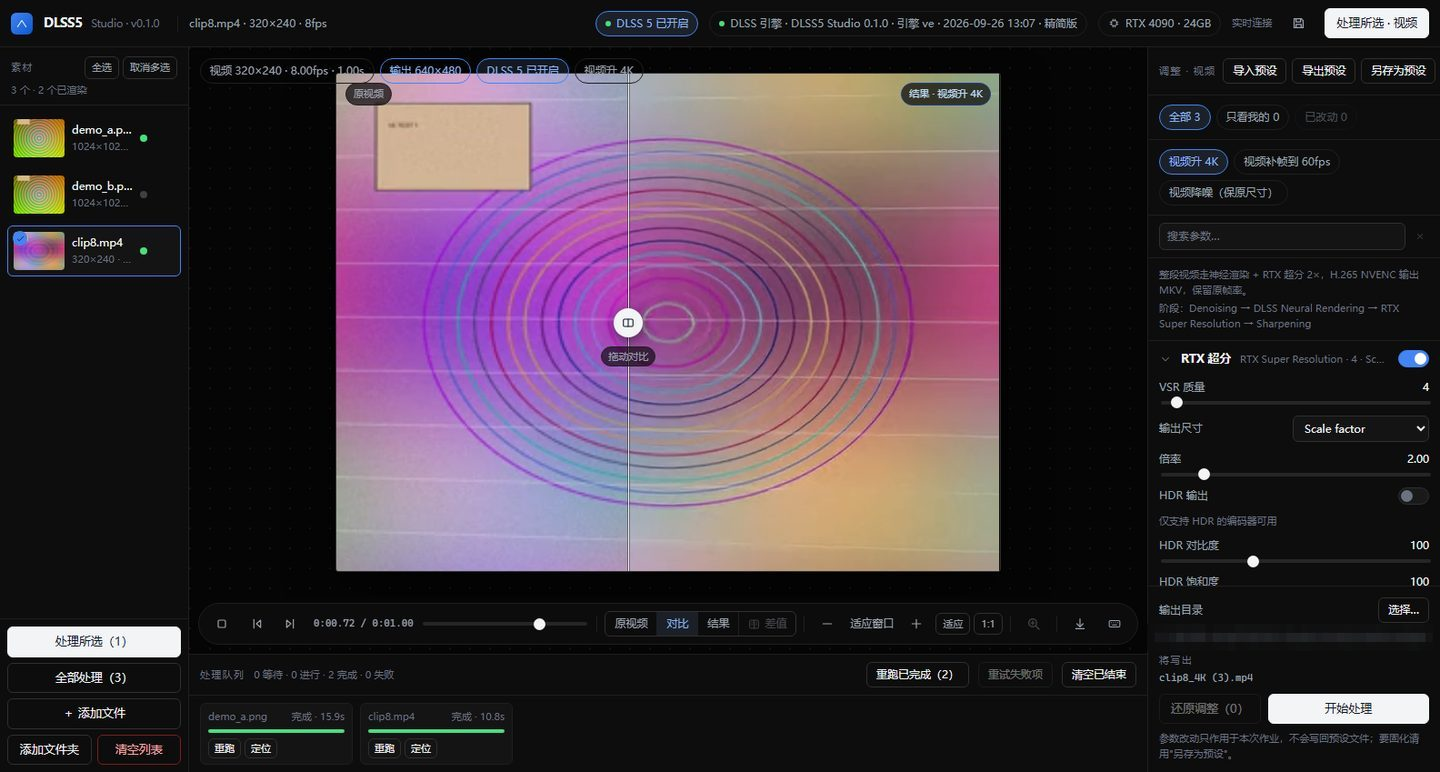
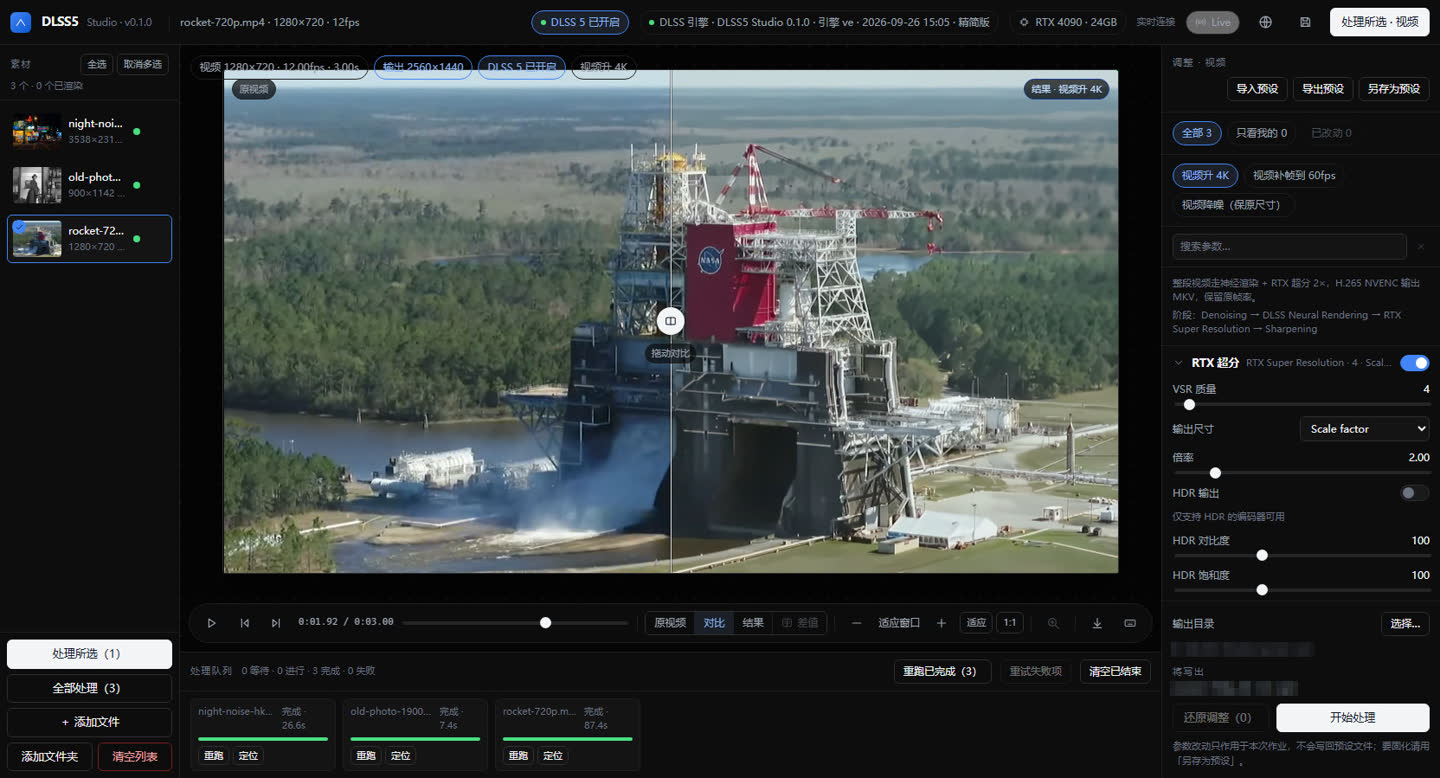
feat(studio): show real measured sessions on download page

diff --git a/src/content/studioPage.ts b/src/content/studioPage.ts
@@ -1,10 +1,9 @@
 /**
  * DLSS5 Studio 落地页文案（英文 / 简体中文）—— 纯数据，无逻辑、无依赖、无组件。
  *
- * 单一来源：alibaba-drive/DLSS5-Studio/landing/index.html（2026-09-26 定稿）。
- * 改文案要在两边一起改：先改 HTML，再重跑抽取脚本
- *   ~/opt/anaconda3/bin/python <scratchpad>/extract-studio-copy.py
- * 这份文件是生成物，请勿手改。
+ * 基础文案最初取自 alibaba-drive/DLSS5-Studio/landing/index.html（2026-09-26）。
+ * /download 的真实业务截图与数字以 promo-20260930/studio-promo.md 为准；
+ * 不要用旧落地页的抽取脚本覆盖本文件里的新实测文案。
  *
  * 键名就是 HTML 上 data-i18n / data-i18n-alt / data-i18n-aria 的值，
  * 外加 meta.title / meta.desc（<title> 与 meta description）。
@@ -33,8 +32,8 @@ export const STUDIO_COPY = {
     'hero.meta.os': 'Windows 10 / 11 · x64',
     'hero.meta.gpu': 'NVIDIA RTX GPU',
     'hero.meta.install': 'No installer, no Python, no account',
-    'hero.shot.alt': 'The DLSS5 Studio window: an asset rail on the left, a wipe-compare canvas in the middle showing a 2048×2048 result from a 1024×1024 source, a parameter inspector on the right, and a job queue along the bottom.',
-    'hero.shot.cap': 'Real application capture: a 1024×1024 source on the left of the wipe and its 2048×2048 result on the right (2× scale).',
+    'hero.shot.alt': 'A real DLSS5 Studio night-noise session: Hong Kong night street source 3538×2318, Night Noise preset, DLSS 5 enabled, 7076×4636 output and a completed 26.6s queue item visible around the wipe-compare canvas.',
+    'hero.shot.cap': 'Real application capture: Night Noise on a 3538×2318 night street frame, output 7076×4636; the queue records completed · 26.6s.',
     'which.eyebrow': 'First things first',
     'which.title': 'Which “DLSS download” are you looking for?',
     'which.sub': 'Two different things are called DLSS here. Picking the right one first saves a wasted download.',
@@ -54,7 +53,7 @@ export const STUDIO_COPY = {
     'feat.2.t': 'RTX Super Resolution',
     'feat.2.d': 'VSR quality 1–4, scale factor and target size, with the DLAA / Quality / Balanced / Performance / Ultra Performance steps. There is no 4× step — 4× means Lanczos 2× into DLSS Performance.',
     'feat.3.t': 'Video and frame interpolation',
-    'feat.3.d': 'Videos go through neural rendering, RTX Super Resolution and interpolation to 60 fps, encoded with H.265 NVENC into MKV at the original frame rate. Without NVENC it falls back to a software encoder and says so in the job log.',
+    'feat.3.d': 'Videos can run through neural rendering and RTX Super Resolution while keeping the source frame rate. The reference 720p clip produced 2560×1440 H.264 MP4 in 87.4s (2.43s/frame) because driver 591.86 is below the 610+ requirement for hardware H.265/NVENC; the fallback is recorded in the job log.',
     'feat.4.t': 'Batch queue',
     'feat.4.d': 'Serial execution with live progress, cancel and retry. Output names are predictable (<code>&lt;name&gt;_&lt;preset label&gt;</code>), a collision becomes <code> (2)</code>, and an existing file is never overwritten.',
     'feat.5.t': 'Wipe compare and difference view',
@@ -86,13 +85,31 @@ export const STUDIO_COPY = {
     'live.shot.cap': 'A running session: 9.1 fps measured against a 10 fps target, 5.4 s of buffer, 95 frames enhanced — and the HLS address to hand to mpv or VLC.',
     'shots.eyebrow': 'Screenshots',
     'shots.title': 'The actual interface',
-    'shots.sub': 'Straight captures of the running application. Nothing here is mocked up.',
-    'shots.video.alt': 'A video job open for comparison: a 320×240 source playing, the 640×480 output on the right of the wipe, and transport controls with frame stepping underneath.',
-    'shots.video.cap': 'Video compare: play the result in place, step frame by frame, switch source / compare / result live.',
-    'shots.diff.alt': 'The difference view: the pixel-by-pixel difference between source and result, rendered dark with fine concentric noise structure, with a magnifier open and a 1× / 3× / 8× gain selector in the toolbar.',
-    'shots.diff.cap': 'Difference view: a pixel-by-pixel subtraction of source and result — brighter means a bigger change.',
-    'shots.keys.alt': 'The keyboard shortcut dialog, listing shortcuts for the asset rail, the queue, parameters and presets, and canvas comparison.',
-    'shots.keys.cap': 'A keyboard path for nearly everything — Ctrl+O, Ctrl+A, Enter to process, F to fit, Z for the magnifier, Space to play.',
+    'shots.sub': 'Straight captures of the running application: Night Noise 1:1 detail, a Difference view, a video comparison, a live queue and the keyboard panel. Nothing here is mocked up.',
+    'shots.nightLens.alt': 'A real Night Noise result at 1:1 and 398% magnification: the canvas shows the Night Noise result and the 3538×2318 to 7076×4636 session controls.',
+    'shots.nightLens.cap': 'Night Noise detail: 1:1 view with a 398% magnifier on the 7076×4636 result.',
+    'shots.photoRestore.alt': 'A real Old Photo Restore session: 900×1142 source, 1800×2284 output and a completed 7.4s queue item in the Studio window.',
+    'shots.photoRestore.cap': 'Old Photo Restore: the 900×1142 source and 1800×2284 output are shown in the application wipe view.',
+    'shots.video.alt': 'A NASA SLS test video in DLSS5 Studio: 1280×720 at 12fps and 3.00s, Video 4K preset, 2560×1440 output, with the wipe comparison and 87.4s completed queue item visible.',
+    'shots.video.cap': 'Video compare: a 1280×720 source and 2560×1440 result, with playback controls and source / comparison / result views.',
+    'shots.diff.alt': 'The Difference view for the night-noise session: the toolbar shows Difference and 3× gain while the 3538×2318 source is compared with its 7076×4636 output.',
+    'shots.diff.cap': 'Difference view: a pixel-by-pixel subtraction of the night source and result; brighter regions indicate larger changes.',
+    'shots.queue.alt': 'A real batch queue in progress: 0 waiting, 1 in progress, 2 complete and 0 failed, with the current item at 7 percent.',
+    'shots.queue.cap': 'Batch queue in progress: the current item is at 7%, with two completed jobs and no failures.',
+    'shots.keys.alt': 'The real keyboard shortcut dialog, listing shortcuts for the asset rail, queue, parameters and presets, and canvas comparison.',
+    'shots.keys.cap': 'The real shortcut panel covers Ctrl+O, Ctrl+A, Enter to process, F to fit, Z for the magnifier and Space to play.',
+    'showcase.title': 'Three real sessions, measured end to end',
+    'showcase.intro': 'These are real application captures from Windows 11 Pro 26200 on an RTX 4090 24 GB with driver 591.86. The inputs are CC0 or public-domain source media; the <a href="https://commons.wikimedia.org/wiki/File:Hong_Kong_in_night_(noise_version).jpg" target="_blank" rel="noreferrer">Hong Kong night source</a>, <a href="https://commons.wikimedia.org/wiki/File:Unidentified_woman_taking_her_own_photograph_using_a_mirror_and_a_box_camera,_roughly_1900.jpg" target="_blank" rel="noreferrer">1900 portrait source</a> and <a href="https://commons.wikimedia.org/wiki/File:NASA%E2%80%99s_Green_Run_Hot_Fire_Test_of_the_Space_Launch_System_Core_Stage.webm" target="_blank" rel="noreferrer">NASA SLS video source</a> are linked for verification.',
+    'showcase.night.title': 'Night-noise reduction · 2× output',
+    'showcase.night.alt': 'Real DLSS5 Studio night-noise comparison: Hong Kong night street, 3538×2318 source to 7076×4636 output, Night Noise preset, completed in 26.6 seconds.',
+    'showcase.night.body': 'The Night Noise preset processed a 3538×2318 street frame into 7076×4636 in <strong>26.6s</strong>. The screenshot shows the wipe comparison, DLSS 5 enabled, Night Noise selected and the completed queue item.',
+    'showcase.photo.title': 'Old-photo restoration · 2× output',
+    'showcase.photo.alt': 'Real DLSS5 Studio old-photo restoration comparison: 900×1142 source to 1800×2284 output, Old Photo Restore preset, completed in 7.4 seconds.',
+    'showcase.photo.body': 'The Old Photo Restore preset took a 900×1142 public-domain scan to 1800×2284 in <strong>7.4s</strong>. The before/after wipe is the application view; no hand retouching was added to the screenshot.',
+    'showcase.video.title': 'Video 4K preset · 1440p output · batch queue',
+    'showcase.video.alt': 'Real DLSS5 Studio video comparison: NASA SLS test footage at 1280×720, 12fps and 3 seconds to 2560×1440, completed in 87.4 seconds.',
+    'showcase.video.queueAlt': 'Real DLSS5 Studio batch queue while processing: zero waiting, one in progress, two complete and zero failed, with the current item at 7 percent.',
+    'showcase.video.body': 'The 1280×720, 12fps, 3.00s clip produced 2560×1440 H.264 MP4 in <strong>87.4s</strong> — <strong>2.43s/frame</strong>. The paired queue capture shows 0 waiting · 1 in progress · 2 complete · 0 failed. The preset names H.265/NVENC, but this RTX 4090 driver 591.86 is below 610, so encoding correctly fell back to software H.264 MP4.',
     'req.eyebrow': 'Requirements',
     'req.title': 'What you need',
     'req.sub': 'A modern Windows machine with an RTX card, and a browser you already have.',
@@ -168,8 +185,8 @@ export const STUDIO_COPY = {
     'hero.meta.os': 'Windows 10 / 11 · x64',
     'hero.meta.gpu': 'NVIDIA RTX 显卡',
     'hero.meta.install': '免安装、不用 Python、不用账号',
-    'hero.shot.alt': 'DLSS5 Studio 的运行界面：左侧素材栏；中间是擦除对比画布，显示从 1024×1024 原图得到的 2048×2048 结果；右侧参数检查器；底部处理队列。',
-    'hero.shot.cap': '真实运行的界面：擦除线左边是 1024×1024 原图，右边是 2048×2048 结果（2 倍尺寸）。',
+    'hero.shot.alt': '真实的 DLSS5 Studio 夜景降噪会话：香港夜景原图 3538×2318，夜景降噪预设，DLSS 5 已开启，输出 7076×4636，队列中可看到已完成 26.6 秒。',
+    'hero.shot.cap': '真实运行截图：3538×2318 夜景素材使用夜景降噪，输出 7076×4636；队列记录为完成 · 26.6s。',
     'which.eyebrow': '先说清楚',
     'which.title': '你要找的「DLSS 下载」是哪一个？',
     'which.sub': '这一页上有两个东西都叫 DLSS。先分清是哪个，能省掉一次白下。',
@@ -189,7 +206,7 @@ export const STUDIO_COPY = {
     'feat.2.t': 'RTX 超分',
     'feat.2.d': 'VSR 质量 1–4 档、倍率与目标尺寸，配合 DLAA / Quality / Balanced / Performance / Ultra Performance 五档 DLSS 档位。没有 4× 这一档 —— 想要 4× 就是先 Lanczos 2×、再让 DLSS 走 Performance。',
     'feat.3.t': '视频与帧插值',
-    'feat.3.d': '视频走神经渲染 + RTX 超分 + 补帧到 60fps，用 H.265 NVENC 编成 MKV 并保留原帧率。没有 NVENC 时自动换同族软件编码器，并在作业消息里如实说明。',
+    'feat.3.d': '视频可以走神经渲染和 RTX 超分，并保留原帧率。参考 720p 片段输出为 2560×1440 H.264 MP4，用时 87.4 秒（2.43 秒/帧）；因为驱动 591.86 低于硬件 H.265/NVENC 所需的 610+，编码器自动退到软件编码，并在作业日志中记录。',
     'feat.4.t': '批量队列',
     'feat.4.d': '串行执行，实时进度、取消、重试。输出命名可预测（<code>&lt;原文件名&gt;_&lt;预设标签&gt;</code>），重名变成 <code> (2)</code>，已存在的文件绝不覆盖。',
     'feat.5.t': '擦除对比与差值视图',
@@ -221,13 +238,31 @@ export const STUDIO_COPY = {
     'live.shot.cap': '一次真实会话：目标 10 fps，实测 9.1 fps，缓冲 5.4 秒，已增强 95 帧 —— 以及可以交给 mpv / VLC 的 HLS 地址。',
     'shots.eyebrow': '界面截图',
     'shots.title': '真实的界面',
-    'shots.sub': '全部是运行中程序的原样截图，没有一张是效果图。',
-    'shots.video.alt': '一个视频作业的对比：320×240 原片在播放，擦除线右侧是 640×480 的输出，下方是带逐帧按钮的播放控制条。',
-    'shots.video.cap': '视频对比：原地播放结果、逐帧步进、原片 / 对比 / 结果三档实时切换。',
-    'shots.diff.alt': '差值视图：原图与结果逐像素相减后的画面，整体偏暗、可见细密的同心噪点结构，同时开着放大镜，工具条上有 1× / 3× / 8× 增益选择。',
-    'shots.diff.cap': '差值视图：原图与结果逐像素相减 —— 越亮改动越大。',
-    'shots.keys.alt': '快捷键面板，列出素材栏、队列、参数与预设、画布对比四组快捷键。',
-    'shots.keys.cap': '几乎每一步都有键盘路径 —— Ctrl+O 加文件、Ctrl+A 全选、Enter 处理、F 适应、Z 放大镜、空格播放。',
+    'shots.sub': '全部是运行中程序的原样截图：夜景 1:1 细节、差值视图、视频对比、处理队列和快捷键面板；没有合成图。',
+    'shots.nightLens.alt': '真实的夜景降噪结果 1:1 与 398% 放大图：画布显示夜景降噪结果，以及 3538×2318 到 7076×4636 的会话参数。',
+    'shots.nightLens.cap': '夜景降噪细节：7076×4636 结果的 1:1 视图与 398% 放大镜。',
+    'shots.photoRestore.alt': '真实的老照片修复会话：900×1142 原图、1800×2284 输出，以及工作室中完成 7.4 秒的队列项。',
+    'shots.photoRestore.cap': '老照片修复：应用擦除视图展示 900×1142 原图与 1800×2284 输出。',
+    'shots.video.alt': 'DLSS5 Studio 中的 NASA SLS 试车视频：1280×720、12fps、3.00 秒，视频升 4K 预设，输出 2560×1440，画布显示擦除对比和完成 87.4 秒的队列项。',
+    'shots.video.cap': '视频对比：1280×720 原片与 2560×1440 结果，带播放控制和原片 / 对比 / 结果视图。',
+    'shots.diff.alt': '夜景降噪会话的差值视图：工具条显示差值和 3× 增益，画布对比 3538×2318 原图与 7076×4636 输出。',
+    'shots.diff.cap': '差值视图：逐像素相减夜景原图与结果，越亮的区域代表改动越大。',
+    'shots.queue.alt': '真实的处理中批量队列：0 等待、1 进行、2 完成、0 失败，当前项进度 7%。',
+    'shots.queue.cap': '处理中批量队列：当前项 7%，已有两个任务完成，没有失败任务。',
+    'shots.keys.alt': '真实快捷键面板，列出素材栏、队列、参数与预设、画布对比四组快捷键。',
+    'shots.keys.cap': '真实快捷键面板覆盖 Ctrl+O、Ctrl+A、Enter 处理、F 适应、Z 放大镜和空格播放。',
+    'showcase.title': '三个真实会话：从输入到输出的实测记录',
+    'showcase.intro': '以下都是 Windows 11 Pro 26200、RTX 4090 24 GB、驱动 591.86 上的真实运行截图。输入素材均为 CC0 或公共领域：<a href="https://commons.wikimedia.org/wiki/File:Hong_Kong_in_night_(noise_version).jpg" target="_blank" rel="noreferrer">香港夜景来源页</a>、<a href="https://commons.wikimedia.org/wiki/File:Unidentified_woman_taking_her_own_photograph_using_a_mirror_and_a_box_camera,_roughly_1900.jpg" target="_blank" rel="noreferrer">1900 年照片来源页</a>、<a href="https://commons.wikimedia.org/wiki/File:NASA%E2%80%99s_Green_Run_Hot_Fire_Test_of_the_Space_Launch_System_Core_Stage.webm" target="_blank" rel="noreferrer">NASA SLS 视频来源页</a>，均可打开核对。',
+    'showcase.night.title': '夜景降噪 · 输出放大 2 倍',
+    'showcase.night.alt': '真实 DLSS5 Studio 夜景降噪对比：香港夜景原图 3538×2318 输出为 7076×4636，选择夜景降噪预设，耗时 26.6 秒。',
+    'showcase.night.body': '夜景降噪预设把 3538×2318 夜景帧处理为 7076×4636，用时<strong>26.6 秒</strong>。图中能看到擦除对比、DLSS 5 已开启、夜景降噪已选中，以及已完成的队列项。',
+    'showcase.photo.title': '老照片修复 · 输出放大 2 倍',
+    'showcase.photo.alt': '真实 DLSS5 Studio 老照片修复对比：900×1142 原图输出为 1800×2284，选择老照片修复预设，耗时 7.4 秒。',
+    'showcase.photo.body': '老照片修复预设把 900×1142 公共领域扫描件处理为 1800×2284，用时<strong>7.4 秒</strong>。前后擦除是应用原生视图，截图没有额外手工修图。',
+    'showcase.video.title': '「视频升 4K」预设 · 实际输出 1440p · 批量队列',
+    'showcase.video.alt': '真实 DLSS5 Studio 视频对比：NASA SLS 试车素材 1280×720、12fps、3 秒输出为 2560×1440，耗时 87.4 秒。',
+    'showcase.video.queueAlt': '真实 DLSS5 Studio 处理中的批量队列：0 等待、1 进行、2 完成、0 失败，当前项进度 7%。',
+    'showcase.video.body': '1280×720、12fps、3.00 秒片段输出为 2560×1440 H.264 MP4，用时<strong>87.4 秒</strong>，即<strong>2.43 秒/帧</strong>。配图同时展示 0 等待 · 1 进行 · 2 完成 · 0 失败的队列。预设写的是 H.265/NVENC，但这台机器驱动 591.86 低于 610，编码器按预期退到软件 H.264 MP4。',
     'req.eyebrow': '系统要求',
     'req.title': '你需要什么',
     'req.sub': '一台带 RTX 显卡的现代 Windows 机器，以及一个你本来就有浏览器。',

diff --git a/scripts/prerender-seo.ts b/scripts/prerender-seo.ts
@@ -9,6 +9,7 @@ import type { PhotoSpec } from '../src/lib/spec/types';
 import { PASSPORT_PHOTO_LONG_FORM, PASSPORT_PHOTO_SPEC_SLUGS, passportPhotoSeoCopy } from '../src/content/passportPhoto';
 import { GAME_STYLE_LANDING, GAME_STYLE_LONG_FORM, gameStyleLandingSchema } from '../src/content/gameStyleLanding';
 import { VIDEO_LANDING, VIDEO_LONG_FORM, videoLandingSchema } from '../src/content/videoLanding';
+import { STUDIO_COPY } from '../src/content/studioPage';
 import { AI_OVERVIEW_DEFINITION } from '../src/content/seoDefinitions';
 import { DEFAULT_SITE_URL, DEFAULT_SUPPORT_EMAIL, resolveSiteUrl, resolveSupportEmail } from '../src/config/site-url';
 import { SITE_PROFILE, SITE_SECTIONS, brandCopy, isPublishedPath, profileHas } from '../src/config/profile';
@@ -375,6 +376,7 @@ type PublicGuideOptions = {
   lead: string;
   keywords: string[];
   links?: Array<{ label: string; path: string }>;
+  extraHtml?: string;
   noindex?: boolean;
 };
 
@@ -383,7 +385,7 @@ function renderPublicGuide(options: PublicGuideOptions): string {
   const links = options.links?.length
     ? `<nav class="mt-10 border-t border-outline-variant/20 pt-7" aria-label="Related pages"><h2 class="text-xl font-bold text-white">Continue exploring</h2><ul class="mt-4 grid grid-cols-1 sm:grid-cols-2 gap-3">${options.links.map(link => `<li><a class="text-primary" href="${escapeHtml(link.path)}">${escapeHtml(link.label)} →</a></li>`).join('')}</ul></nav>`
     : '';
-  const root = `<main class="pt-32 pb-24 px-6 max-w-[1000px] mx-auto"><nav class="mb-8 text-sm text-zinc-500"><a href="/">DLSS5NVIDIA</a> <span aria-hidden="true">/</span> <span>${escapeHtml(options.heading)}</span></nav><header class="max-w-3xl"><p class="text-primary uppercase tracking-widest text-xs">DLSS5NVIDIA · independent guide</p><h1 class="text-4xl md:text-5xl font-bold text-white mt-4">${escapeHtml(options.heading)}</h1><p class="text-lg leading-relaxed text-zinc-300 mt-5">${escapeHtml(options.lead)}</p></header><section class="mt-12 rounded-xl border border-outline-variant/20 bg-surface-low p-6"><h2 class="text-2xl font-bold text-white">What this page covers</h2><p class="mt-4 leading-relaxed text-zinc-300">${escapeHtml(options.description)}</p></section>${links}</main>`;
+  const root = `<main class="pt-32 pb-24 px-6 max-w-[1000px] mx-auto"><nav class="mb-8 text-sm text-zinc-500"><a href="/">DLSS5NVIDIA</a> <span aria-hidden="true">/</span> <span>${escapeHtml(options.heading)}</span></nav><header class="max-w-3xl"><p class="text-primary uppercase tracking-widest text-xs">DLSS5NVIDIA · independent guide</p><h1 class="text-4xl md:text-5xl font-bold text-white mt-4">${escapeHtml(options.heading)}</h1><p class="text-lg leading-relaxed text-zinc-300 mt-5">${escapeHtml(options.lead)}</p></header><section class="mt-12 rounded-xl border border-outline-variant/20 bg-surface-low p-6"><h2 class="text-2xl font-bold text-white">What this page covers</h2><p class="mt-4 leading-relaxed text-zinc-300">${escapeHtml(options.description)}</p></section>${options.extraHtml || ''}${links}</main>`;
   return withRoot(withHead(TEMPLATE, {
     title: options.title,
     description: options.description,
@@ -791,6 +793,13 @@ if (profileHas('about')) writeRoute('/about', renderPublicGuide({
   keywords: ['NVIDIA DLSS 5', 'DLSS 5 neural rendering', 'Tensor Core upscaling', 'DLSS 5 vs DLSS 4', 'DLSS 5 vs FSR 4'],
   links: [{ label: 'DLSS 5 latest news', path: '/blog/dlss-5-latest-news-september-2026' }, { label: 'DLSS 5 technical guide', path: '/blog/what-is-dlss-5-neural-rendering-guide' }, { label: 'AI image tools compared', path: '/comparisons' }],
 }));
+const studioStatic = STUDIO_COPY['en-US'];
+const studioStaticCases = [
+  { id: 'night', image: 'studio-overview.jpg', extra: 'studio-night-lens.jpg', extraAlt: studioStatic['shots.nightLens.alt'] },
+  { id: 'photo', image: 'studio-photo-restore.jpg' },
+  { id: 'video', image: 'studio-video-compare.jpg', extra: 'studio-queue.jpg', extraAlt: studioStatic['showcase.video.queueAlt'] },
+] as const;
+const studioStaticShowcase = `<section id="showcase" class="mt-12"><h2 class="text-2xl font-bold text-white">${escapeHtml(studioStatic['showcase.title'])}</h2><p class="mt-4 text-zinc-300 leading-relaxed">${studioStatic['showcase.intro']}</p>${studioStaticCases.map((item) => `<article class="mt-8 rounded-xl border border-outline-variant/20 bg-surface-low overflow-hidden"><img src="/studio/${item.image}" width="1440" height="778" loading="lazy" alt="${escapeHtml(studioStatic[`showcase.${item.id}.alt`])}" class="w-full" />${'extra' in item ? `<img src="/studio/${item.extra}" width="1440" height="778" loading="lazy" alt="${escapeHtml(item.extraAlt)}" class="w-full" />` : ''}<div class="p-5"><h3 class="text-xl font-bold text-white">${escapeHtml(studioStatic[`showcase.${item.id}.title`])}</h3><p class="mt-2 text-zinc-300 leading-relaxed">${studioStatic[`showcase.${item.id}.body`]}</p></div></article>`).join('')}<figure class="mt-8"><img src="/studio/studio-diff.jpg" width="1440" height="778" loading="lazy" alt="${escapeHtml(studioStatic['shots.diff.alt'])}" class="w-full rounded-xl" /><figcaption class="mt-2 text-sm text-zinc-400">${escapeHtml(studioStatic['shots.diff.cap'])}</figcaption></figure></section>`;
 if (profileHas('download')) writeRoute('/download', renderPublicGuide({
   path: '/download',
   title: 'DLSS5 Studio — DLSS 5 download explained, plus a local neural rendering tool',
@@ -799,6 +808,7 @@ if (profileHas('download')) writeRoute('/download', renderPublicGuide({
   lead: 'Understand where official DLSS is delivered, what DLSS5 Studio adds on a local RTX machine, and how to ask for the build.',
   keywords: ['DLSS 5 download', 'DLSS download free', 'DLSS5 Studio', 'NVIDIA DLSS installer', 'RTX DLSS compatibility', 'local neural rendering tool'],
   links: [{ label: 'Free AI Image Upscaler', path: '/image-upscaler' }, { label: 'Latest DLSS 5 news', path: '/blog/dlss-5-latest-news-september-2026' }, { label: 'Models and workflows', path: '/models' }],
+  extraHtml: studioStaticShowcase,
 }));
 if (profileHas('docs')) writeRoute('/docs', renderApiCatalog());
 if (profileHas('enterprise')) writeRoute('/enterprise', renderPublicGuide({

diff --git a/src/pages/Download.tsx b/src/pages/Download.tsx
@@ -11,7 +11,6 @@ import {
   Monitor,
   Package,
   ShieldCheck,
-  Sparkles,
 } from 'lucide-react';
 import SEO from '../components/SEO';
 import StudioRequest from '../components/StudioRequest';
@@ -29,10 +28,13 @@ import { SITE_URL } from '../config/site';
  */
 
 const STUDIO_SHOTS = {
-  hero: { src: '/studio/studio-overview.jpg', width: 1440, height: 794 },
+  hero: { src: '/studio/studio-overview.jpg', width: 1440, height: 778 },
+  nightLens: { src: '/studio/studio-night-lens.jpg', width: 1440, height: 778 },
+  diff: { src: '/studio/studio-diff.jpg', width: 1440, height: 778 },
+  photoRestore: { src: '/studio/studio-photo-restore.jpg', width: 1440, height: 778 },
   live: { src: '/studio/live-panel.jpg', width: 1424, height: 789 },
-  video: { src: '/studio/studio-video-compare.jpg', width: 1440, height: 772 },
-  diff: { src: '/studio/studio-diff.jpg', width: 1440, height: 772 },
+  video: { src: '/studio/studio-video-compare.jpg', width: 1440, height: 778 },
+  queue: { src: '/studio/studio-queue.jpg', width: 1440, height: 778 },
   keys: { src: '/studio/studio-shortcuts.jpg', width: 1440, height: 772 },
 };
 
@@ -284,8 +286,11 @@ export default function Download() {
 
         <div className="mt-8 grid grid-cols-1 md:grid-cols-3 gap-5">
           {([
+            ['nightLens', STUDIO_SHOTS.nightLens],
+            ['photoRestore', STUDIO_SHOTS.photoRestore],
             ['video', STUDIO_SHOTS.video],
             ['diff', STUDIO_SHOTS.diff],
+            ['queue', STUDIO_SHOTS.queue],
             ['keys', STUDIO_SHOTS.keys],
           ] as const).map(([id, shot]) => (
             <figure key={id}>
@@ -303,12 +308,43 @@ export default function Download() {
         </div>
       </section>
 
-      {/* ── 效果对比（等真实素材） ───────────────────────────────────── */}
+      {/* ── 真实业务展示 ─────────────────────────────────────────────── */}
       <section id="showcase" className="mb-16 scroll-mt-28">
         <h2 className="text-2xl md:text-3xl font-headline font-bold text-white mb-4">{t('showcase.title')}</h2>
-        <div className="rounded-2xl border border-dashed border-outline-variant/40 bg-surface-low p-8 text-center">
-          <Sparkles className="w-6 h-6 text-zinc-500 mx-auto mb-3" aria-hidden="true" />
-          <p className="text-sm text-zinc-400 leading-relaxed max-w-2xl mx-auto">{t('showcase.pending')}</p>
+        <p className="text-zinc-400 leading-relaxed max-w-3xl mb-8 [&_a]:text-primary [&_a]:underline" {...rich('showcase.intro')} />
+        <div className="grid grid-cols-1 gap-8">
+          {([
+            ['night', STUDIO_SHOTS.hero],
+            ['photo', STUDIO_SHOTS.photoRestore],
+            ['video', STUDIO_SHOTS.video],
+          ] as const).map(([id, shot]) => (
+            <article key={id} className="overflow-hidden rounded-2xl border border-outline-variant/20 bg-surface-low">
+              <img
+                src={shot.src}
+                width={shot.width}
+                height={shot.height}
+                loading="lazy"
+                decoding="async"
+                alt={t(`showcase.${id}.alt`)}
+                className="w-full"
+              />
+              {id === 'video' && (
+                <img
+                  src={STUDIO_SHOTS.queue.src}
+                  width={STUDIO_SHOTS.queue.width}
+                  height={STUDIO_SHOTS.queue.height}
+                  loading="lazy"
+                  decoding="async"
+                  alt={t('showcase.video.queueAlt')}
+                  className="w-full border-t border-outline-variant/20"
+                />
+              )}
+              <div className="p-5 md:p-6">
+                <h3 className="text-xl font-headline font-bold text-white mb-2">{t(`showcase.${id}.title`)}</h3>
+                <p className="text-sm text-zinc-300 leading-relaxed [&_a]:text-primary [&_a]:underline" {...rich(`showcase.${id}.body`)} />
+              </div>
+            </article>
+          ))}
         </div>
       </section>
 

diff --git a/src/content/studioRequest.ts b/src/content/studioRequest.ts
@@ -65,10 +65,6 @@ What I want to process:
 (One line is enough — images, video, or both.)
 `,
 
-    'showcase.title': 'Before and after, from a real session',
-    'showcase.pending':
-      'The wipe comparison and the 8-second video clip are being recorded on the test machine. Previews on this page are real captures — never renders — so the slots stay empty until the footage exists.',
-
     'honest.title': 'What it does not do',
     'honest.1': 'It does not claim to be NVIDIA DLSS. Official DLSS has no standalone installer; it ships inside games as nvngx_dlss.dll. This is an independent tool, not affiliated with or endorsed by NVIDIA.',
     'honest.2': 'It does not upload your material. There is no server-side rendering here, and no online version of the pipeline — everything runs on your own GPU.',
@@ -129,10 +125,6 @@ What I want to process:
 
 （一句话就够 —— 图片、视频，或都要。）
 `,
-
-    'showcase.title': '真实会话的前后对比',
-    'showcase.pending':
-      '擦除对比与 8 秒视频正在测试机上录制。这一页只放真实录制的素材、不放渲染示意图，所以素材没就位之前这些位置先空着。',
 
     'honest.title': '它不做什么',
     'honest.1': '不冒充 NVIDIA 官方 DLSS。官方 DLSS 没有独立安装包，它随游戏以 nvngx_dlss.dll 分发。这是一个独立工具，与 NVIDIA 无隶属、也无授权关系。',

diff --git a/docs/STUDIO_PROMO_2026-09-30.md b/docs/STUDIO_PROMO_2026-09-30.md
@@ -1,0 +1,84 @@
+# /download 页面的宣传素材换成真实截图（2026-09-30）
+
+本文件是产品负责人的要求，2026-09-30 转达。DLSS5 Studio 的宣传素材包已从网盘同步到本机，目录在仓库外：
+
+```
+/Users/wangsheng/code/shou/alibaba-drive/DLSS5-Studio/promo-20260930/
+```
+
+（相对 Codex 的工作目录 `~/code/shou` 就是 `alibaba-drive/DLSS5-Studio/promo-20260930/`，
+和 `src/content/studioPage.ts` 里那行「单一来源：alibaba-drive/…」是同一个位置。）
+
+先读这三份，不要只看一眼图就动手：
+
+| 文件 | 里面有什么 |
+| --- | --- |
+| `00-INDEX.md` | 素材包总览、上架注意事项（尺寸/体积、打码、版权、口径） |
+| `studio-promo.md` | 宣传正文：定位、三个真实业务场景、实测数字、系统要求、来源授权、能说/不能说 |
+| `promo/README.md` | 六张图逐张说明（界面上可核对的信息）、打码范围、选材原则 |
+
+## 背景（可核对的现状）
+
+- `/download` 就是 DLSS5 Studio 的产品页。现在挂的图是从 `landing/mkassets.py` 生成的那批，
+  画布内容是 **1024×1024 的合成测试图案**（`demo_a.png` / `demo_b.png`），
+  图上还挂着「右侧不是当前预设的产出」的提示 —— 而 `shots.sub` 写的是
+  「全部是运行中程序的原样截图，没有一张是效果图」。这两句现在是矛盾的。
+- 同一页 `#showcase` 还空着：「等真实素材」。这套素材就是那份真实素材。
+- 新素材包里的六张图是 **Windows 11 + RTX 4090 + 真引擎** 跑出来的真界面截图，
+  素材全部 CC0 / Public domain，界面上同时看得到素材名、输入尺寸、预设、输出尺寸、队列耗时。
+
+## 已经替你做好的部分（别重复劳动）
+
+**站点规格的 JPEG 已经转好**，在 `promo-20260930/site-1440/`：六张 1440×778、每张 152–180 KB
+（原图是 1664×899、240–400 KB，直接上线偏重）。**把它们原样复制进 `public/studio/` 即可，不要再压一次。**
+
+| 站点文件（建议名） | 内容 | 界面上可核对的信息 |
+| --- | --- | --- |
+| `studio-overview.jpg` | 夜景街拍跑「夜景降噪」的整窗擦除对比 | 3538×2318 → **7076×4636**；队列 `完成 · 26.6s` |
+| `studio-night-lens.jpg` | 同一张结果切 1:1（**398%**）+ 放大镜 | 画布右上「结果 · 夜景降噪」；工具条 `1:1` 高亮 |
+| `studio-diff.jpg` | 「差值」视图，越亮改动越大 | 工具条 `差值` + `增益 3×` |
+| `studio-photo-restore.jpg` | 1900 年老照片跑「老照片修复」 | 900×1142 → **1800×2284**；队列 `完成 · 7.4s` |
+| `studio-video-compare.jpg` | NASA 试车 720p 跑「视频升 4K」，播放中擦除对比 | 输入 `1280×720 · 12.00fps · 3.00s` → 输出 **2560×1440**；`完成 · 87.4s` |
+| `studio-queue.jpg` | 批量队列**正在处理** | `0 等待 · 1 进行 · 2 完成 · 0 失败`；当前项 `7%`；顶栏 `队列 1 中` |
+
+（PNG 无损档与 7 MB 的 zip 只作存档，**不要提交进仓库**。）
+
+## 要求
+
+1. **换掉画布里那几张合成图案**：hero 与 `#shots` 里凡是显示合成测试图案的图，一律换成上面的真实截图；
+   快捷键面板那张本身就是真实界面，可以留。图片的 `width` / `height` 属性跟着改成 1440×778。
+2. **把 `#showcase` 填起来**：三段真实业务（夜景降噪 + 2× 放大、老照片修复、720p 视频升 4K + 批量队列），
+   每段一张图 + 实测数字，数字只能照抄 `studio-promo.md` 第 3 节的表：
+   26.6 s / 7.4 s / 87.4 s（2.43 s/帧），输出 7076×4636 / 1800×2284 / 2560×1440。
+   素材来源与许可（CC0 / Public domain）也写出来，附来源页链接。
+3. **文案跟着事实走**：`shots.sub` 那句「没有一张是效果图」现在才站得住；
+   hero 与各图的 alt / caption 要描述**图上真实可见的东西**（素材名、尺寸、预设、耗时），
+   不要写成「精美的效果对比」这种空话。中英两版（`STUDIO_COPY`）都要改，键名不变。
+4. **补一句编码口径**：预设写的是 H.265 / NVENC，但实测这台机器驱动 591.86 < 610，
+   编码器自动退到软件编码，输出是 **H.264 MP4**。别把它写成参数错误。
+5. **打码必须保留**：右栏「输出目录 / 将写出」两行的马赛克是在 `finalize.py` 里做的，
+   只覆盖那两行文字。**不要把马赛克抹掉再上线** —— 那会露出本机路径。
+
+## 边界（不要做）
+
+- 不写「实时 / real-time」（实测视频 2.43 秒一帧）；不写「NVIDIA 官方 / 合作 / 授权 / 经销商」；
+  不用「超分」描述神经渲染（NR 是同分辨率重绘）；不写「支持所有显卡」；不写没实测过的数字。
+- 不动 `/download` 的索取流程（`StudioRequest`）、邮箱投递与付费链路；本次只改素材与文案。
+- 不改测试断言，不把失败项写成通过。
+- 不提交 `dist/`、`node_modules/`、素材包原图与 zip。
+
+## 验收
+
+- `npx tsc --noEmit`、`npm test`、`npm run build` 全绿。
+- 六张新图都在 `public/studio/` 下、1440 宽、单张 ≤180 KB；页面上每张都能加载（无破图）。
+- 本地起服务，中英两版各看一遍 `/download`：hero 是真实夜景对比，`#showcase` 不再是占位虚线框。
+- 把做过什么、逐项验证结果、以及特意没做的部分，写回本文件。
+
+## 执行与逐项验收（2026-09-30）
+
+- 已阅读本 brief、`00-INDEX.md`、`studio-promo.md` 和 `promo/README.md`，只采用包内三组实测素材与数字。六张 `site-1440/*.jpg` 原样复制到 `public/studio/`；SHA-256 对照源文件逐张一致，均为 **1440×778**，大小依次为 179695、161085、153079、177170、163310、161122 字节（均 ≤180000 字节）。右栏「输出目录 / 将写出」两行的马赛克保留，已目视核对；没有重新压缩。
+- `/download` hero 换成香港夜景真实擦除截图；`#shots` 改用夜景放大镜、老照片、视频、差值、队列与原本真实的快捷键面板；`#showcase` 现有夜景、老照片、NASA 视频三段真实案例，不再显示占位虚线框。各段展示源尺寸、输出尺寸和 26.6 s / 7.4 s / 87.4 s（2.43 s/帧），并链接原素材的 CC0 / Public domain 来源页。中英文标题、说明、alt、caption 同步更新。视频的预设名称为「视频升 4K」，本次**实际输出为 2560×1440**，页面明确区分两者；驱动 591.86 下的软件 H.264 MP4 回退也已说明。
+- 静态预渲染的 `/download` 同步写入三段案例和六张真实图，避免无 JavaScript 访客与爬虫只看到旧介绍。没有更改页面的 SEO title、description、关键词或索取流程。
+- `npx tsc --noEmit`：通过；`npm test`：**87/87 通过**；`npm run build`：通过（Vite、API catalog 导出、SEO 预渲染）。`git diff --check`：通过。
+- 本地 `http://127.0.0.1:5173/download` 用 Playwright 实看英文、中文各一遍，并分别检查 **1440×900 桌面**与 **375×812 窄屏**：四种组合中 hero 均为真实夜景图，`#showcase` 均有三段案例，六张新图及页面其余图片均加载成功，未见缺失翻译键、控制台错误或水平溢出。检查记录和截图保存在本机 `/tmp/dlss5-download-review/`（`en-desktop`、`zh-desktop`、`en-mobile`、`zh-mobile`）。
+- 特意未做：未改 `StudioRequest` 登录/发信/索取行为、邮箱投递、支付链路或测试断言；未提交原图 PNG、7 MB zip、`dist/`、`node_modules/`；没有把实测视频速度称为实时，也没有宣称 NVIDIA 官方或合作关系。此项为本地代码与本地页面验收，**尚未宣称线上已部署**。
